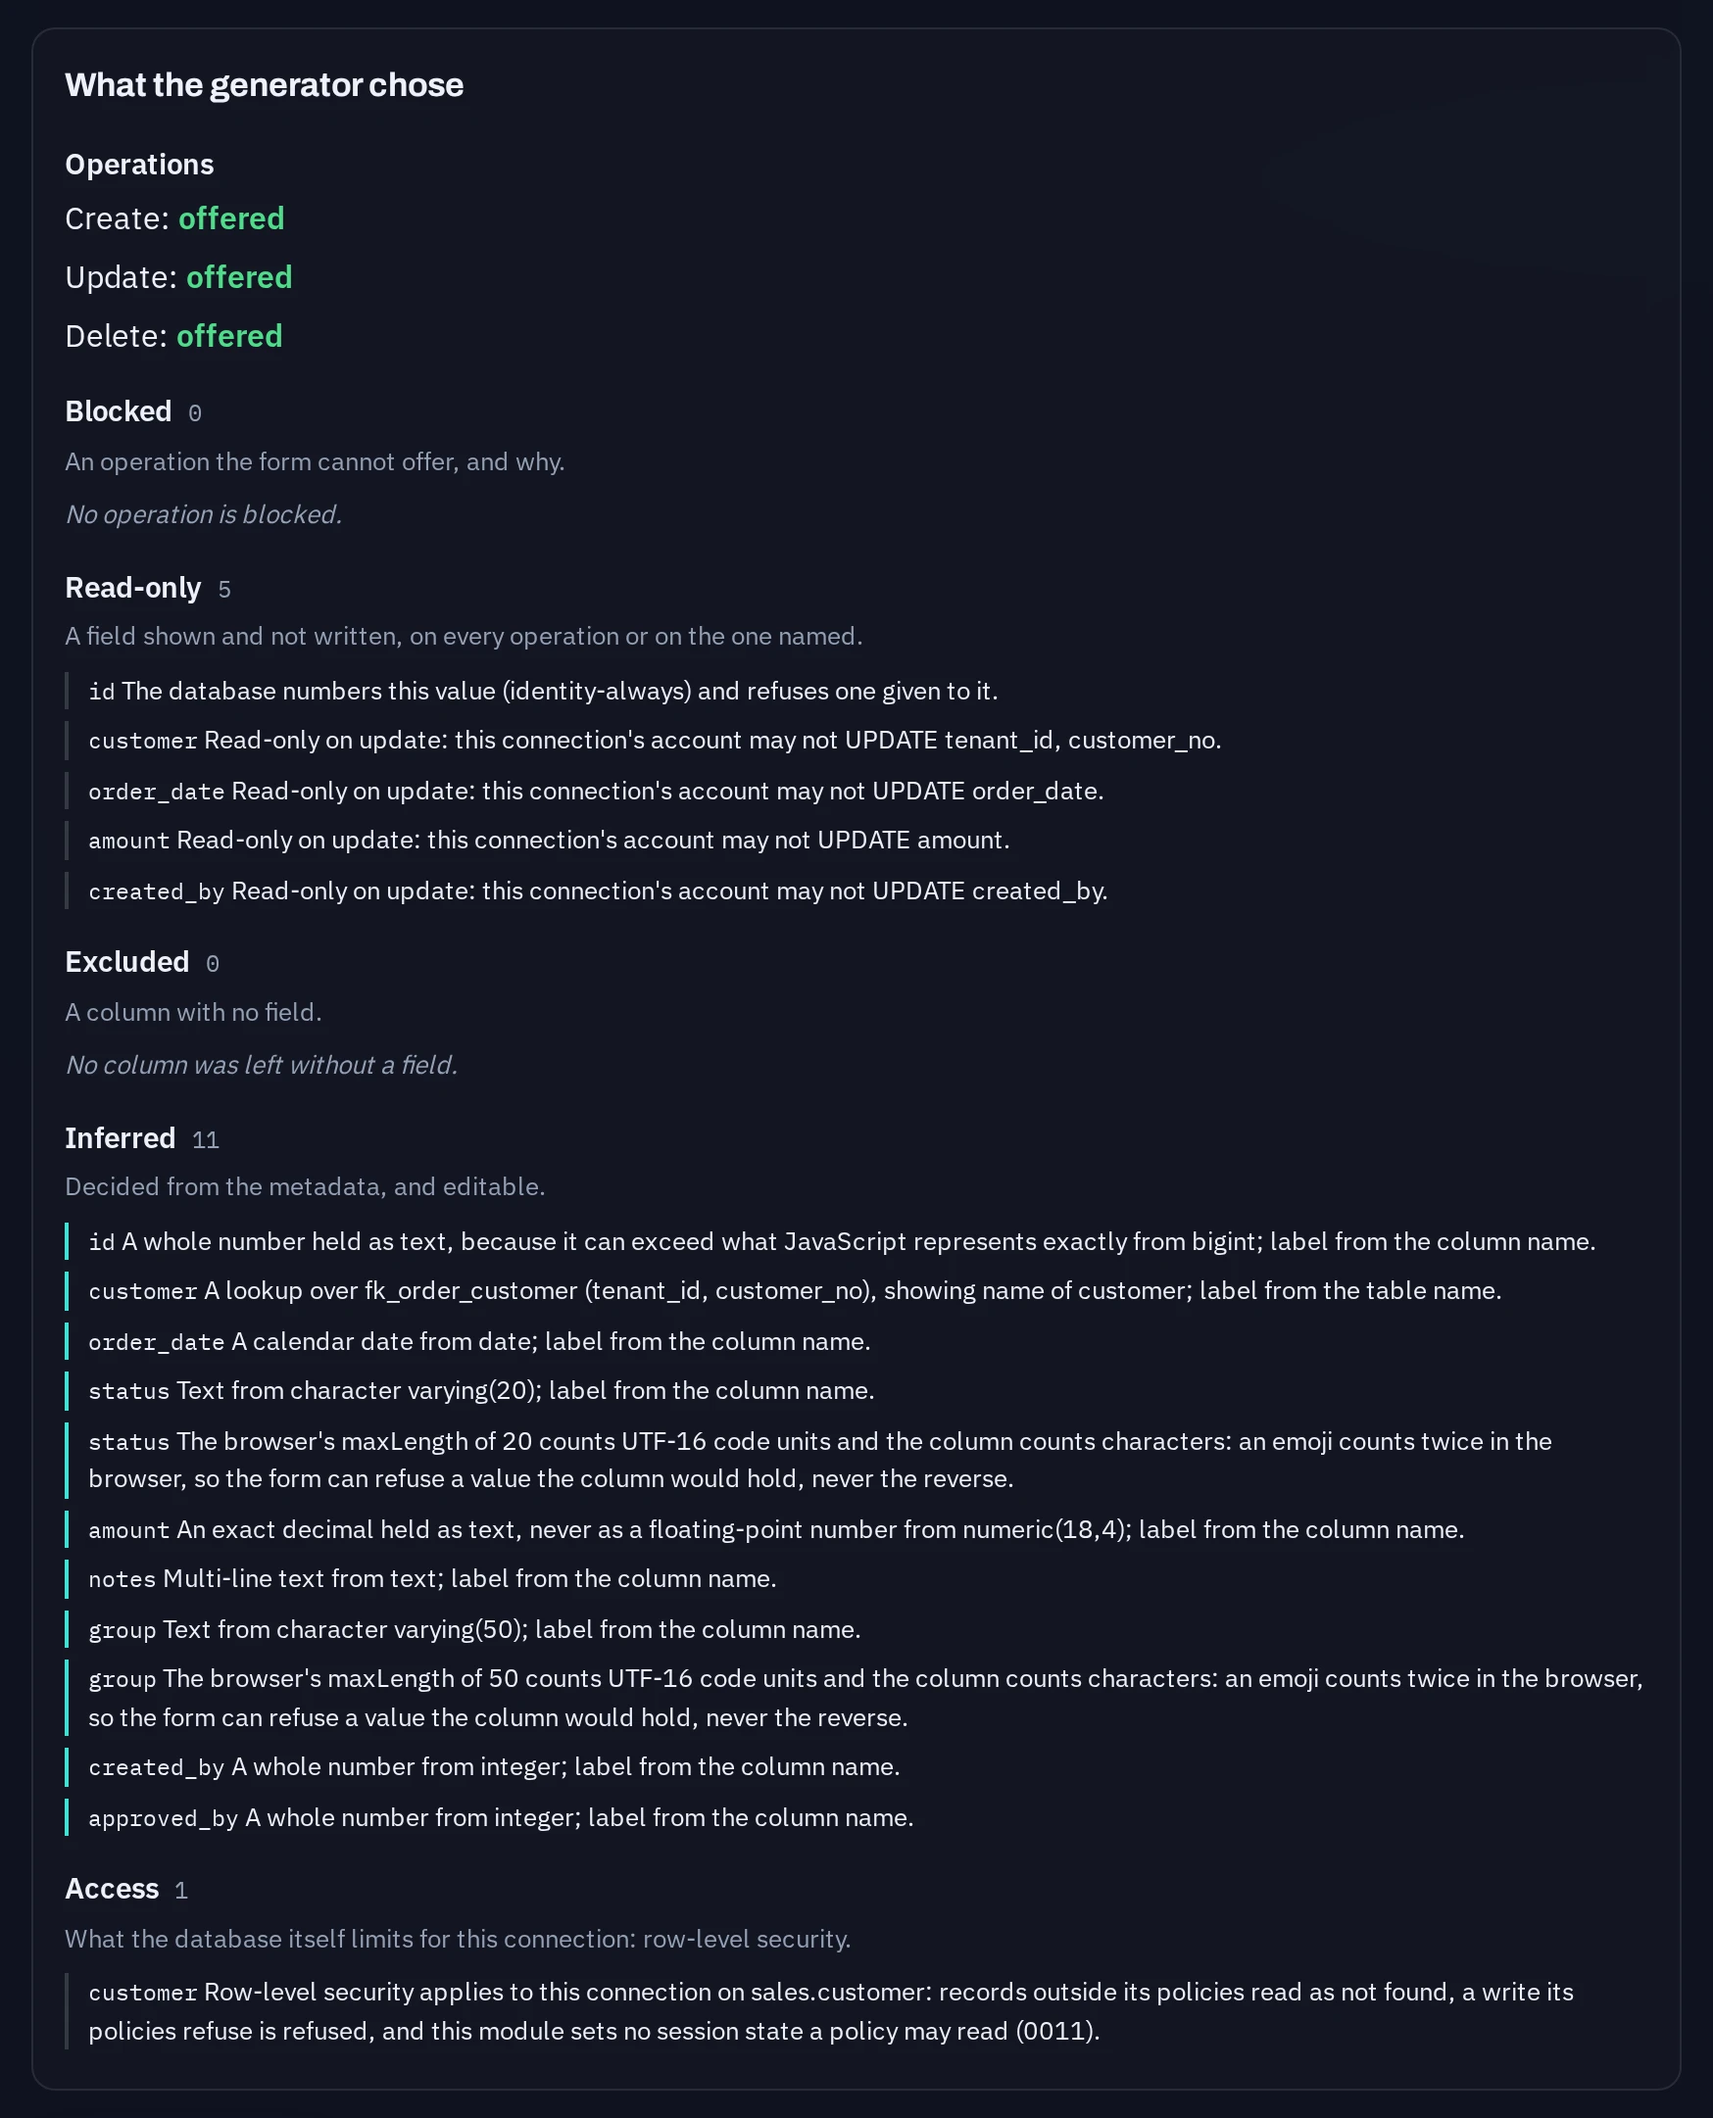
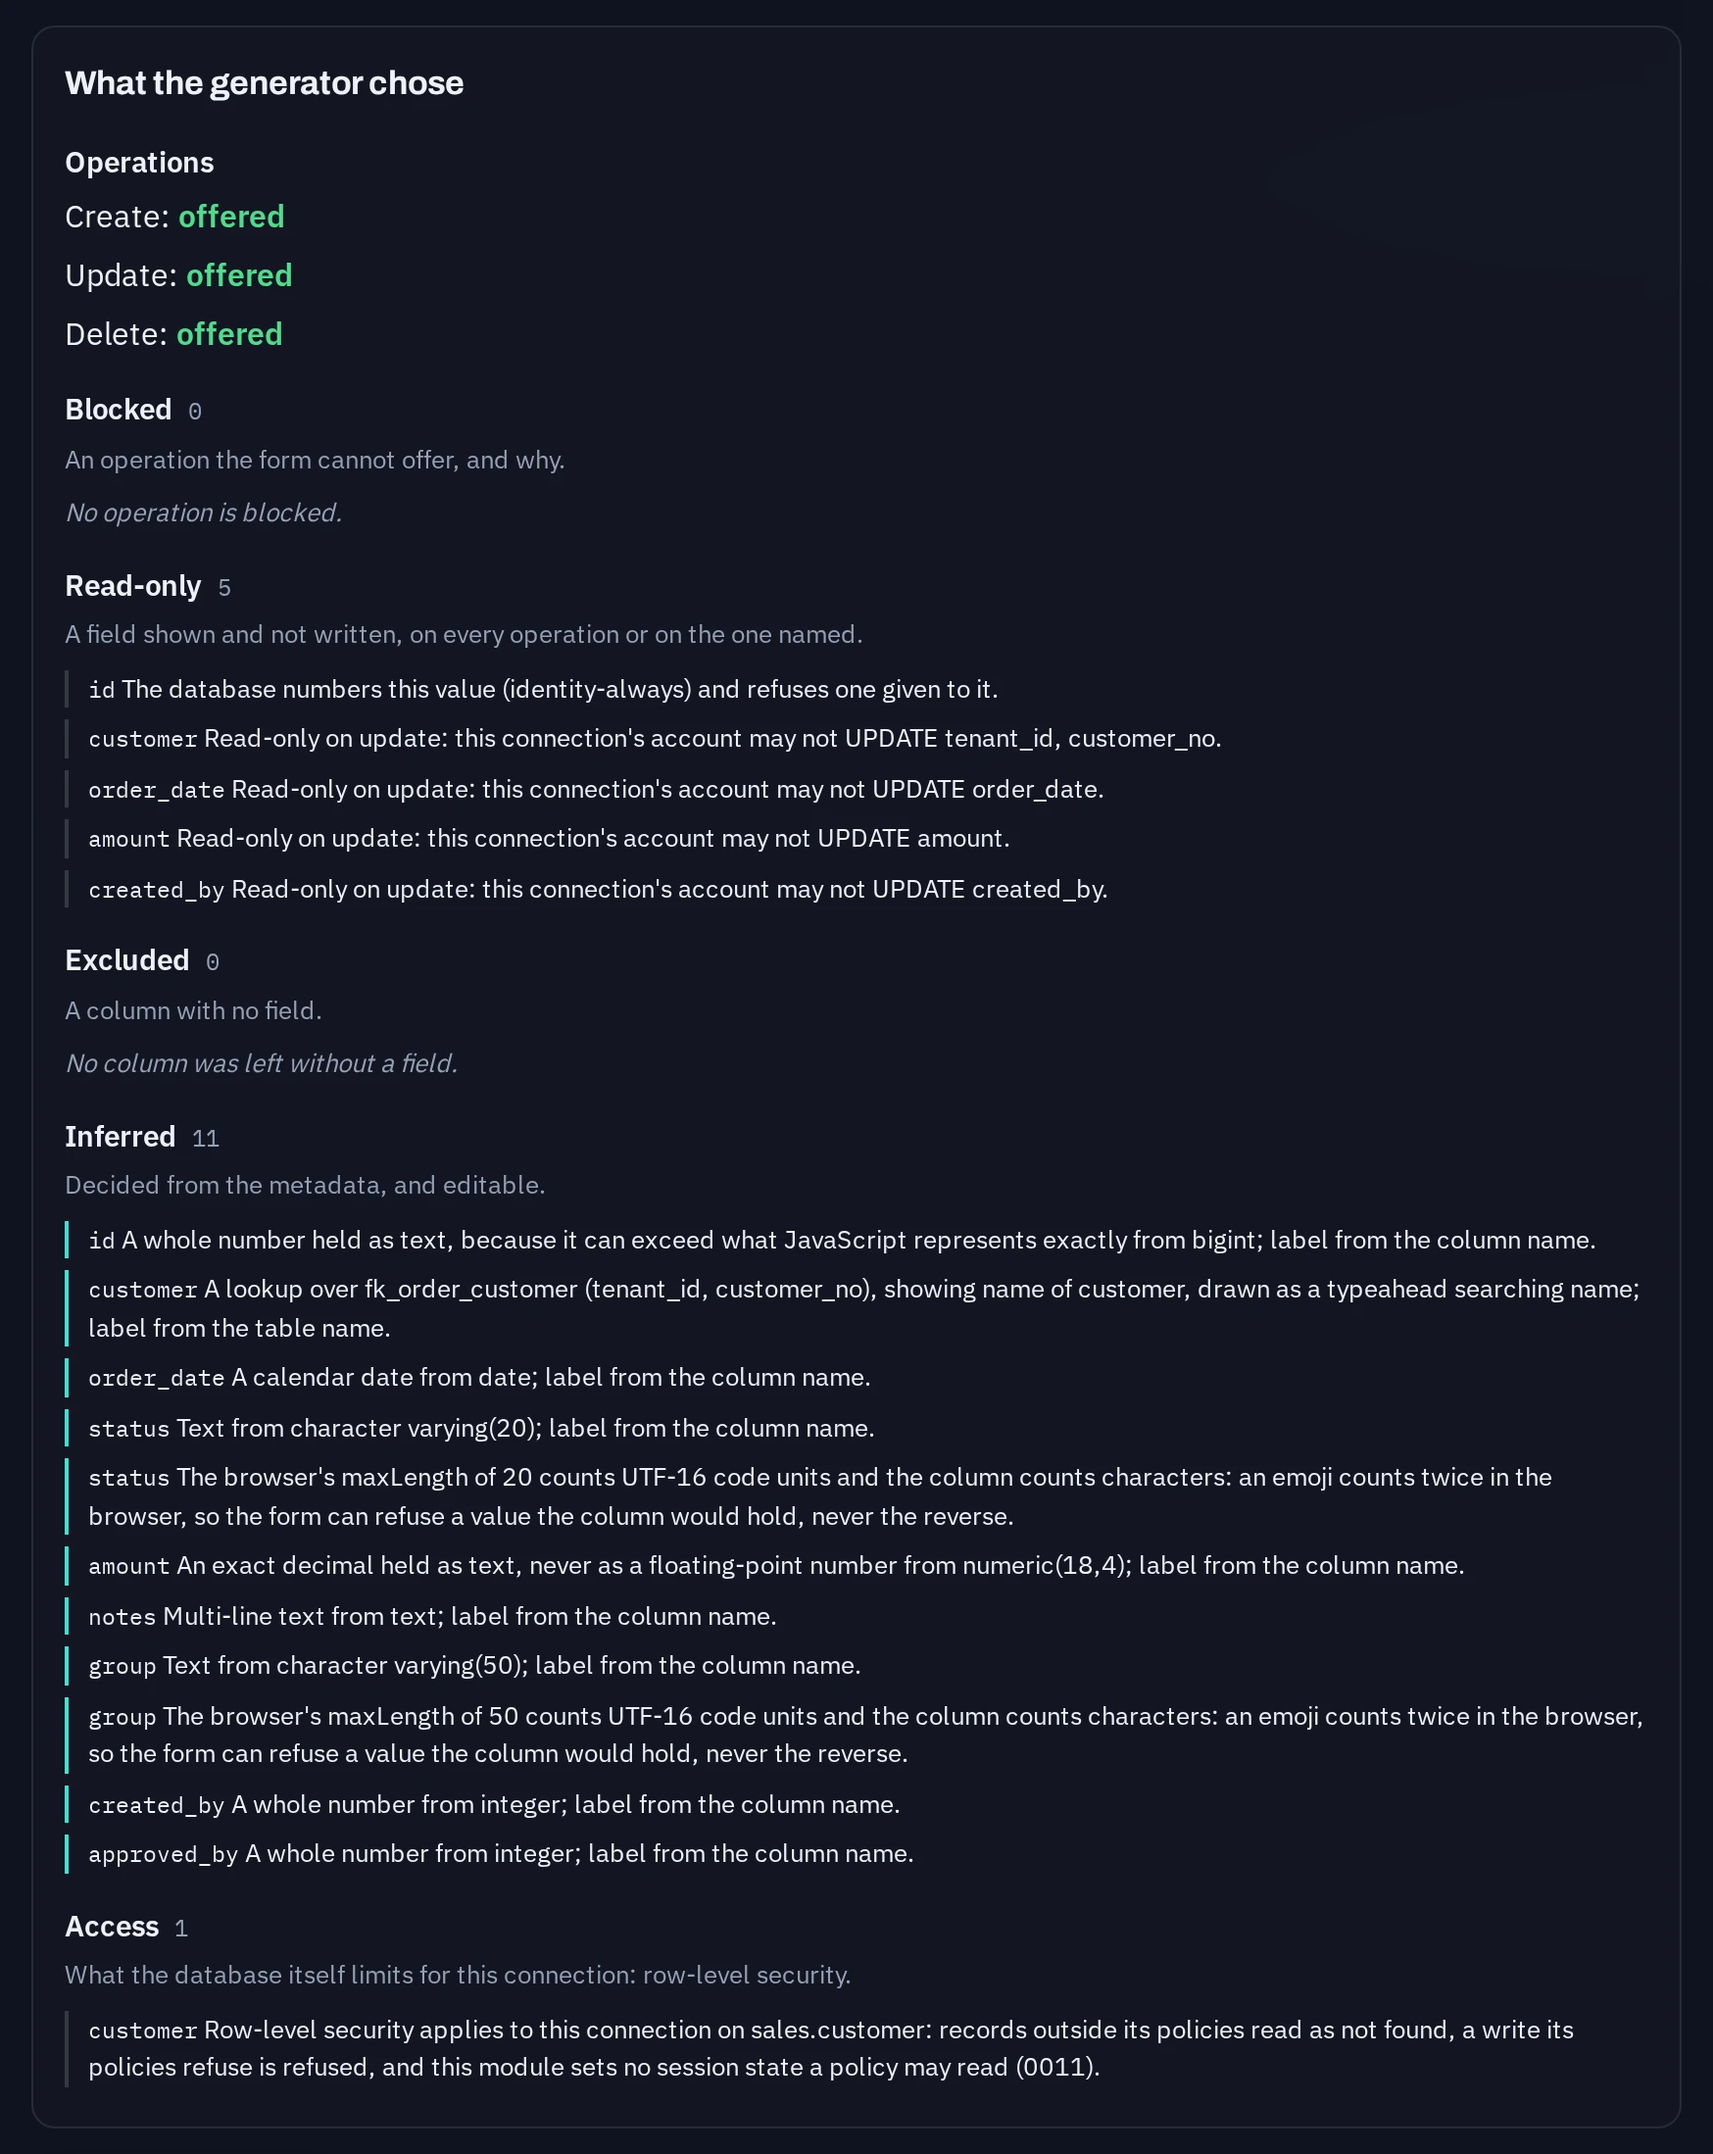
The examples page draws Customer as the typeahead its form names, and the two pictures that changed are taken again

Changed region(s): [[0.0309, 0.031, 0.9577, 0.8987], [0.0618, 0.8987, 0.8032, 0.9607], [0.865, 0.9297, 0.8959, 0.9607]]

diff --git a/apps/examples/src/panes.test.tsx b/apps/examples/src/panes.test.tsx
@@ -1,8 +1,12 @@
 import { afterEach, describe, expect, test } from 'vitest'
-import { cleanup, fireEvent, render, screen, waitFor } from '@testing-library/react'
+import { cleanup, fireEvent, render, screen, waitFor, within } from '@testing-library/react'
+import { userEvent } from '@testing-library/user-event'
+import { computeAccessibleName } from 'dom-accessibility-api'
 import type { FormEngine } from '@formancy/core'
+import { decodeKeyToken } from '@formancy/data-core'
 import { previewEngine } from './engines.js'
 import { generateExamples } from './examples.js'
+import { CAPTURED, lookupSources } from './lookup-source.js'
 import { AngularPane, ReactPane } from './panes.js'
 import { FIXTURE_SNAPSHOT } from './snapshot.js'
 import { ANGULAR_ARRIVES } from './test-timing.js'
@@ -10,11 +14,17 @@ import { ANGULAR_ARRIVES } from './test-timing.js'
 /**
  * One preview pane at a time, around the renderer rather than through it.
  *
- * Found by role and accessible name (formancy.ai 0034), with one exception,
- * on purpose: the host element a failed Angular start must not leave behind is
+ * Found by role and accessible name (formancy.ai 0034), with two exceptions,
+ * on purpose. The host element a failed Angular start must not leave behind is
  * an empty custom element, with no role and no name, so the accessibility tree
  * cannot say whether it is there. That one is read from the DOM, by its tag,
- * because the tag is the thing that must be gone.
+ * because the tag is the thing that must be gone. And the active option of a
+ * typeahead's list is the one its box's `aria-activedescendant` names, which
+ * a screen reader is told and no query by role answers: so that attribute is
+ * read, and the option it names is found by that id and known by its
+ * accessible name. What a choice stores is read from the engine the test
+ * holds, not from the page, because the box shows the label and only the
+ * engine holds the token.
  */
 afterEach(cleanup)
 
@@ -84,5 +94,57 @@ describe('a preview pane', () => {
     const paper = screen.getByRole('form', { name: 'sales.order, React preview' })
     // `fireEvent` answers false when a handler prevented the default.
     expect(fireEvent.submit(paper)).toBe(false)
+  })
+})
+
+/** The accessible name of the option `box`'s `aria-activedescendant` names, or undefined when it names none. */
+function activeOption(box: HTMLElement): string | undefined {
+  const id = box.getAttribute('aria-activedescendant')
+  const option = id === null ? null : document.getElementById(id)
+  return option === null ? undefined : computeAccessibleName(option)
+}
+
+describe.each([
+  ['React', 'react', ReactPane],
+  ['Angular', 'angular', AngularPane],
+] as const)('the customer typeahead under %s', (_name, renderer, Pane) => {
+  // What a lookup stores is the token of the referenced key, never its label
+  // (0012), and a typeahead is where the two could be confused: its box shows
+  // the label the person chose. So the customer is chosen by the keyboard
+  // alone, over the page's own sources, and the engine must hold the token of
+  // Other Tenant GmbH's key, (2, 1001); a control that stored what its box
+  // shows would hold "Other Tenant GmbH".
+  //
+  // Down until the box points at it, then Enter, never a fixed count of keys:
+  // a closed typeahead opens on ArrowDown with its first match active, Muster
+  // AG, but on none when its source has not answered yet (the renderers'
+  // 250 ms debounce), so "ArrowDown and Enter" would store Muster AG's token,
+  // or nothing, by the timing. The presses are bounded by the list's length,
+  // so a box whose keys move nothing fails rather than loops.
+  test('chosen by the keyboard, stores the token of the key and shows the label', async () => {
+    const order = generateExamples(FIXTURE_SNAPSHOT).find((example) => example.request.root.name === 'order')
+    if (order === undefined) throw new Error('no order example')
+    const engine = previewEngine(order.generated.form, renderer)
+    const sources = lookupSources(generateExamples(FIXTURE_SNAPSHOT), CAPTURED)
+    render(<Pane tableId="t" table="sales.order" engine={engine} sources={sources} />)
+    const user = userEvent.setup()
+
+    const box = await screen.findByRole('combobox', { name: 'Customer' }, ANGULAR_ARRIVES)
+    box.focus()
+    await user.keyboard('{ArrowDown}')
+    const list = await screen.findByRole('listbox', { name: 'Customer suggestions' })
+    const offered = ['Muster AG', 'Other Tenant GmbH']
+    await waitFor(() => expect(within(list).getAllByRole('option').map((option) => computeAccessibleName(option))).toEqual(offered))
+    for (let pressed = 0; activeOption(box) !== 'Other Tenant GmbH'; pressed += 1) {
+      if (pressed === offered.length) throw new Error(`${String(pressed)} presses of ArrowDown left the box pointing at ${activeOption(box) ?? 'no option'}`)
+      const before = activeOption(box)
+      await user.keyboard('{ArrowDown}')
+      await waitFor(() => expect(activeOption(box)).not.toBe(before))
+    }
+    await user.keyboard('{Enter}')
+
+    await waitFor(() => expect((box as HTMLInputElement).value).toBe('Other Tenant GmbH'))
+    const stored = (engine.value() as Record<string, unknown>).customer
+    expect(typeof stored === 'string' ? decodeKeyToken(stored) : stored).toEqual({ ok: true, values: ['2', '1001'] })
   })
 })

diff --git a/apps/examples/src/previews.test.tsx b/apps/examples/src/previews.test.tsx
@@ -4,7 +4,6 @@ import { userEvent } from '@testing-library/user-event'
 import axe from 'axe-core'
 import { computeAccessibleDescription, computeAccessibleName } from 'dom-accessibility-api'
 import { ACCESSIBILITY_EXCLUSIONS, ACCESSIBILITY_TAGS, ACCESSIBILITY_UNMEASURABLE_IN_JSDOM } from '@formancy/conformance'
-import { decodeKeyToken } from '@formancy/data-core'
 import { App } from './app.js'
 import { generateExamples } from './examples.js'
 import type { Example } from './examples.js'
@@ -238,29 +237,36 @@ describe('sales.order, at the edges the fixture inserts', () => {
     }
   })
 
-  // The lookup is a select over the host's source, and what it stores is the
-  // token of the referenced key, never the label (0012). Both renderers get the
-  // same source; each must offer both customers and store the same token.
-  test('both renderers offer the two captured customers and store the token of the chosen key', async () => {
+  // The lookup shows the customer's name, which a search can match, so the
+  // generator draws it as a typeahead (0066), and the preview must draw what
+  // every host draws: a box whose list is the host's source, opened from the
+  // keyboard. A preview that drew the lookup as a plain select would show a
+  // control no host draws for this form any more. Both renderers get the same
+  // source, and each must offer both customers.
+  //
+  // One ArrowDown, then a wait for the list. The source is asked 250 ms after
+  // the box is drawn (the renderers' debounce), and an ArrowDown before the
+  // answer opens a list that stays hidden until the answer gives it options;
+  // which option is active when it appears depends on that timing, so this
+  // case asserts nothing about it. What a choice stores is panes.test.tsx's:
+  // a typeahead's box shows the label, and only the engine holds the token.
+  test('both renderers draw the customer as a typeahead whose list offers the two captured customers', async () => {
     await mounted()
     const user = userEvent.setup()
     const order = example('order')
 
     for (const renderer of RENDERERS) {
       const customer = within(pane(order, renderer)).getByRole('combobox', { name: 'Customer' })
+      customer.focus()
+      await user.keyboard('{ArrowDown}')
+      const list = await within(pane(order, renderer)).findByRole('listbox', { name: 'Customer suggestions' })
       await waitFor(() => {
-        const offered = within(customer)
+        const offered = within(list)
           .getAllByRole('option')
           .map((option) => computeAccessibleName(option))
-        expect({ renderer, offered }).toEqual({ renderer, offered: ['', 'Muster AG', 'Other Tenant GmbH'] })
+        expect({ renderer, offered }).toEqual({ renderer, offered: ['Muster AG', 'Other Tenant GmbH'] })
       })
-      await user.selectOptions(customer, within(customer).getByRole('option', { name: 'Other Tenant GmbH' }))
-      await waitFor(() => {
-        expect({ renderer, stored: decodeKeyToken((customer as HTMLSelectElement).value) }).toEqual({
-          renderer,
-          stored: { ok: true, values: ['2', '1001'] },
-        })
-      })
+      await user.keyboard('{Escape}')
     }
   })
 })

diff --git a/docs/images/README.md b/docs/images/README.md
@@ -121,7 +121,8 @@ record, and `pnpm test:repo` fails when they are not what the render gives.
 against the database: that both panes hold the id digit for digit, that the
 stale save overwrote nothing, that the lost save was stored, that the
 typeahead offers clara her tenant's customer alone though tenant 2's matches
-too; that `status` is `varchar(20)` before the narrowing and `varchar(8)`
+too; that each examples preview's customer typeahead, opened from the
+keyboard, offers Muster AG (0066); that `status` is `varchar(20)` before the narrowing and `varchar(8)`
 after it, as host-drift's caption says, read from the catalog because neither
 width is in the picture (watched failing with 9 for 8); that after it drift
 review, asked as ada, says reads go on and create and update stop, for the
